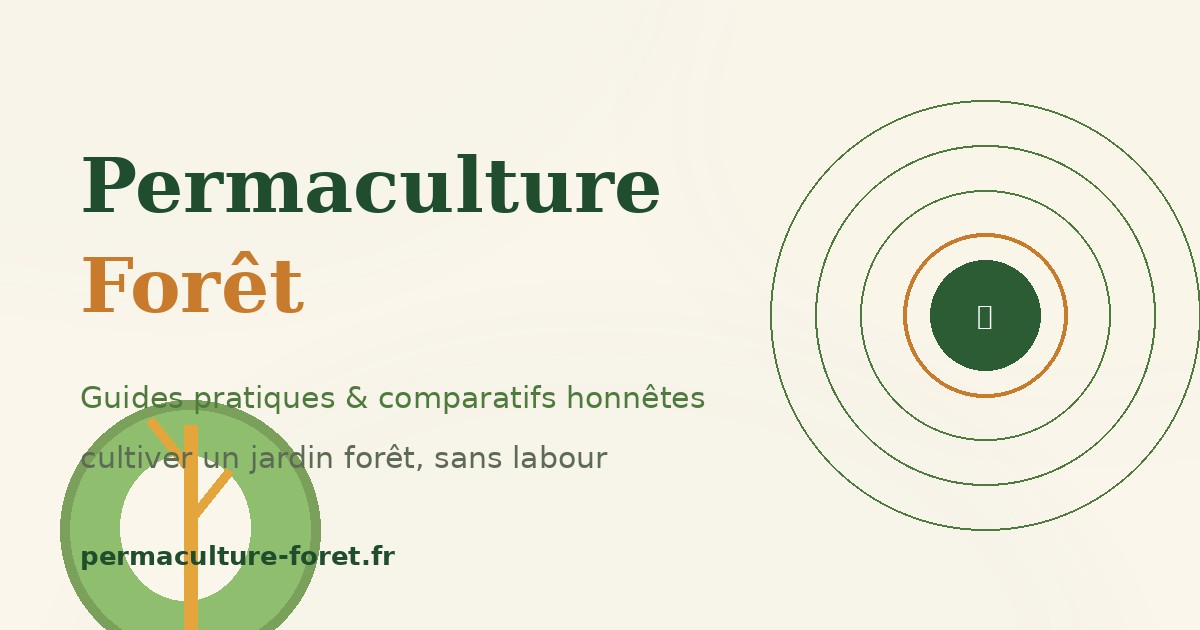
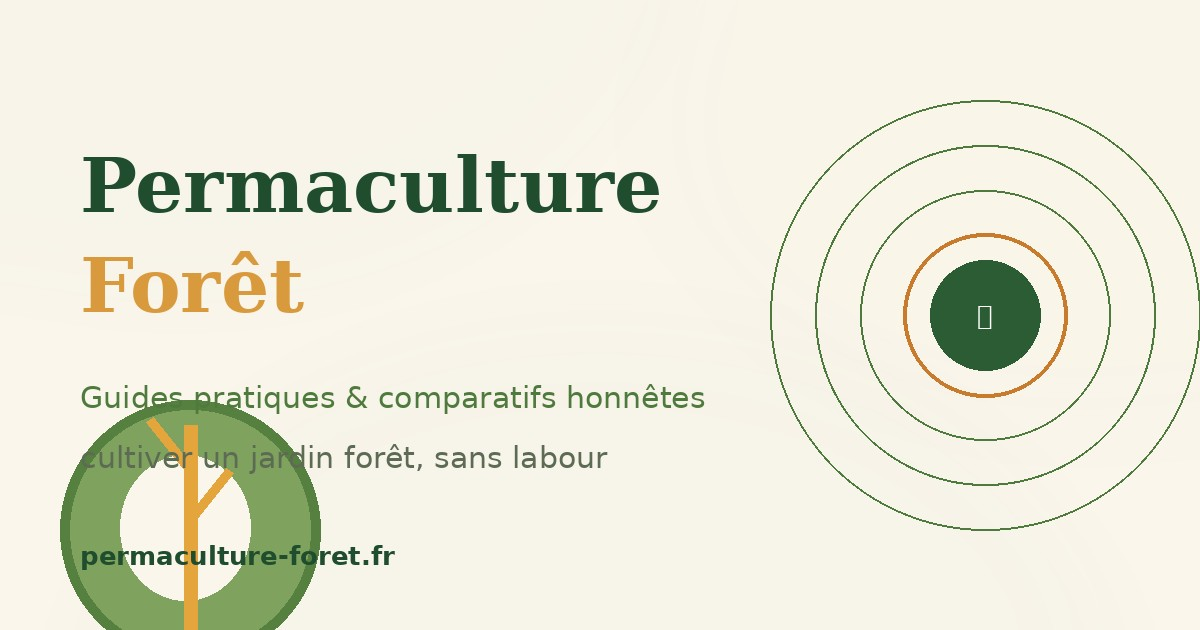
fix(design): palette resserrée famille verte, ambre en accent seul, orbes cohérents, CTA épuré, media queries mobile

Changed region(s): [[0.0308, 0.6333, 0.2775, 1.0], [0.0617, 0.3921, 0.2467, 0.5127]]

diff --git a/src/styles/global.css b/src/styles/global.css
@@ -4,26 +4,25 @@
    ============================================================ */
 
 :root {
-  --bg: #faf6ec;
-  --bg-2: #f1ebdb;
-  --paper: #fffdf6;
-  --panel: rgba(255, 253, 246, 0.72);
-  --panel-strong: rgba(255, 253, 246, 0.94);
-  --border: rgba(47, 71, 43, 0.13);
-  --border-strong: rgba(47, 71, 43, 0.24);
-  --text: #1e2b1a;
-  --muted: #5d6b54;
-  --forest: #1f4d2e;
-  --forest-2: #14381f;
-  --moss: #4f7a3d;
-  --leaf: #7ba05b;
-  --sage: #a9ba90;
-  --amber: #c97b2d;
-  --honey: #e3a53c;
-  --cream: #faf6ec;
-  --grad: linear-gradient(105deg, #1f4d2e 0%, #4f7a3d 55%, #c97b2d 135%);
-  --grad-soft: linear-gradient(105deg, rgba(31, 77, 46, 0.09), rgba(79, 122, 61, 0.09) 55%, rgba(201, 123, 45, 0.09));
-  --grad-text: linear-gradient(100deg, #1f4d2e 10%, #4f7a3d 60%, #c97b2d 120%);
+  --bg: #f7f4ea;
+  --bg-2: #efe9d9;
+  --paper: #fffdf4;
+  --panel: rgba(255, 253, 244, 0.72);
+  --panel-strong: rgba(255, 253, 244, 0.94);
+  --border: rgba(47, 71, 43, 0.12);
+  --border-strong: rgba(47, 71, 43, 0.22);
+  --text: #24301f;
+  --muted: #5f6b56;
+  --forest: #1e4a2b;
+  --forest-2: #14311d;
+  --moss: #55803f;
+  --leaf: #7fa35e;
+  --sage: #b3bf9a;
+  --amber: #d99a3d;
+  --cream: #f7f4ea;
+  --grad: linear-gradient(100deg, #1e4a2b 0%, #3c6b2f 55%, #55803f 100%);
+  --grad-soft: linear-gradient(100deg, rgba(30, 74, 43, 0.08), rgba(60, 107, 47, 0.08) 55%, rgba(85, 128, 63, 0.08));
+  --grad-text: linear-gradient(95deg, #1e4a2b 12%, #3c6b2f 65%, #55803f 100%);
   --radius: 22px;
   --radius-sm: 12px;
   --font-display: 'Fraunces', Georgia, 'Times New Roman', serif;
@@ -48,16 +47,16 @@ body {
   text-rendering: optimizeLegibility;
 }
 
-/* --- Halos nature : taches de mousse et d'ambre --- */
+/* --- Halos nature : taches de mousse uniquement (palette verte) --- */
 body::before {
   content: '';
   position: fixed;
   inset: 0;
   z-index: -2;
   background:
-    radial-gradient(ellipse 52% 40% at 12% -6%, rgba(123, 160, 91, 0.22), transparent 60%),
-    radial-gradient(ellipse 42% 34% at 92% 10%, rgba(227, 165, 60, 0.13), transparent 60%),
-    radial-gradient(ellipse 58% 44% at 50% 112%, rgba(79, 122, 61, 0.16), transparent 65%),
+    radial-gradient(ellipse 52% 40% at 12% -6%, rgba(127, 163, 94, 0.18), transparent 60%),
+    radial-gradient(ellipse 42% 34% at 92% 10%, rgba(179, 191, 154, 0.14), transparent 60%),
+    radial-gradient(ellipse 58% 44% at 50% 112%, rgba(85, 128, 63, 0.14), transparent 65%),
     var(--bg);
 }
 
@@ -394,7 +393,7 @@ section { position: relative; padding: 84px 0; }
 .ring-1 { inset: 2%; border: 1.5px solid rgba(79, 122, 61, 0.30); }
 .ring-2 {
   inset: 12%;
-  border: 1.5px dashed rgba(201, 123, 45, 0.45);
+  border: 1.5px dashed rgba(217, 154, 61, 0.38);
   animation: spin 46s linear infinite;
 }
 .ring-3 { inset: 23%; border: 1.5px solid rgba(79, 122, 61, 0.35); }
@@ -407,7 +406,7 @@ section { position: relative; padding: 84px 0; }
   position: absolute;
   inset: 36%;
   border-radius: 50%;
-  background: radial-gradient(circle at 34% 30%, #7ba05b, #2c5c33 58%, #1f4d2e);
+  background: radial-gradient(circle at 34% 30%, #7fa35e, #2c5c33 58%, #1e4a2b);
   box-shadow: 0 0 46px rgba(79, 122, 61, 0.5), inset -10px -12px 30px rgba(0, 0, 0, 0.25);
   display: flex;
   align-items: center;
@@ -418,16 +417,31 @@ section { position: relative; padding: 84px 0; }
 @keyframes float { 0%, 100% { transform: translateY(0); } 50% { transform: translateY(-12px); } }
 @keyframes spin { to { transform: rotate(360deg); } }
 @keyframes pulse { 0%, 100% { transform: scale(1); opacity: 1; } 50% { transform: scale(1.35); opacity: 0.75; } }
-.orbit-leaf {
+.orbit-orb {
   position: absolute;
-  font-size: 24px;
-  animation: spin 16s linear infinite;
-  filter: drop-shadow(0 4px 8px rgba(31, 60, 28, 0.25));
+  border-radius: 50%;
+  animation: spin linear infinite;
 }
-.orbit-leaf.l1 { top: 3%; left: 44%; font-size: 26px; animation-duration: 18s; }
-.orbit-leaf.l2 { bottom: 7%; left: 8%; animation-duration: 14s; }
-.orbit-leaf.l3 { top: 42%; right: 2%; font-size: 20px; animation-duration: 22s; }
-.orbit-leaf.l4 { bottom: 16%; right: 16%; font-size: 18px; animation-duration: 12s; }
+.orbit-orb::before {
+  content: '';
+  position: absolute;
+  inset: -12px;
+  border-radius: 50%;
+  background: radial-gradient(circle, currentColor 15%, transparent 70%);
+  opacity: 0.55;
+}
+.orbit-orb i {
+  position: absolute;
+  inset: 0;
+  border-radius: 50%;
+  display: block;
+}
+.o1 { width: 20px; height: 20px; top: 5%; left: 45%; color: var(--moss); animation-duration: 18s; }
+.o1 i { background: radial-gradient(circle at 30% 30%, #7fa35e, #55803f); box-shadow: 0 0 14px rgba(85, 128, 63, 0.7); }
+.o2 { width: 14px; height: 14px; bottom: 9%; left: 10%; color: var(--amber); animation-duration: 14s; }
+.o2 i { background: radial-gradient(circle at 30% 30%, #f0c274, #d99a3d); box-shadow: 0 0 12px rgba(217, 154, 61, 0.55); }
+.o3 { width: 11px; height: 11px; top: 40%; right: 5%; color: var(--sage); animation-duration: 22s; }
+.o3 i { background: radial-gradient(circle at 30% 30%, #d3ddb6, #b3bf9a); box-shadow: 0 0 10px rgba(179, 191, 154, 0.6); }
 .rings-caption {
   position: absolute;
   left: 50%;
@@ -601,32 +615,23 @@ section { position: relative; padding: 84px 0; }
   position: relative;
   overflow: hidden;
   border-radius: 28px;
-  background: var(--grad);
+  background:
+    radial-gradient(ellipse 60% 90% at 20% 0%, rgba(127, 163, 94, 0.35), transparent 60%),
+    linear-gradient(120deg, #14311d 0%, #1e4a2b 45%, #3c6b2f 100%);
   color: #fdfaf0;
   padding: 56px 48px;
   text-align: center;
   box-shadow: var(--shadow-lg);
 }
 .cta-band::before {
-  content: '🌿';
+  content: '';
   position: absolute;
-  font-size: 120px;
-  opacity: 0.14;
-  left: -18px;
-  bottom: -30px;
-  transform: rotate(-20deg);
+  inset: 0;
+  background: radial-gradient(ellipse 40% 55% at 85% 110%, rgba(217, 154, 61, 0.22), transparent 65%);
+  pointer-events: none;
 }
-.cta-band::after {
-  content: '🍂';
-  position: absolute;
-  font-size: 96px;
-  opacity: 0.12;
-  right: -10px;
-  top: -22px;
-  transform: rotate(18deg);
-}
-.cta-band h2 { color: #fff; font-size: clamp(26px, 3.6vw, 36px); margin-bottom: 10px; }
-.cta-band p { color: rgba(253, 250, 240, 0.85); max-width: 520px; margin: 0 auto 24px; }
+.cta-band h2 { color: #fff; font-size: clamp(26px, 3.6vw, 36px); margin-bottom: 10px; position: relative; }
+.cta-band p { color: rgba(253, 250, 240, 0.88); max-width: 520px; margin: 0 auto 24px; position: relative; }
 .btn-cream {
   background: #fdfaf0;
   color: var(--forest-2) !important;
@@ -652,7 +657,7 @@ section { position: relative; padding: 84px 0; }
 .footer-brand { font-family: var(--font-display); font-size: 21px; font-weight: 700; color: #f4efdf; margin-bottom: 10px; display: flex; align-items: center; gap: 10px; }
 .footer-brand svg { flex-shrink: 0; }
 .footer-desc { font-size: 14px; max-width: 320px; color: rgba(235, 228, 208, 0.68); }
-.footer-col h4 { font-family: var(--font-body); font-size: 13px; font-weight: 700; text-transform: uppercase; letter-spacing: 0.14em; color: var(--honey); margin-bottom: 14px; }
+.footer-col h4 { font-family: var(--font-body); font-size: 13px; font-weight: 700; text-transform: uppercase; letter-spacing: 0.14em; color: var(--amber); margin-bottom: 14px; }
 .footer-col a {
   display: block;
   color: rgba(235, 228, 208, 0.78);
@@ -675,6 +680,30 @@ section { position: relative; padding: 84px 0; }
 @media (max-width: 860px) {
   .footer-grid { grid-template-columns: 1fr; gap: 28px; }
   .footer-bottom { flex-direction: column; }
+}
+
+/* ============ Mobile : cohérence & respiration ============ */
+@media (max-width: 860px) {
+  section { padding: 60px 0; }
+  .section-sub { margin-bottom: 32px; }
+  .hero { min-height: auto; padding-top: calc(var(--nav-h) + 20px); }
+  .hero h1 { font-size: clamp(34px, 10vw, 44px); }
+  .hero-intro { font-size: 16px; margin-bottom: 26px; }
+  .hero-stats { gap: 28px; margin-top: 32px; }
+  .hero-stat b { font-size: 22px; }
+  .rings-wrap { max-width: 250px; margin-bottom: 14px; }
+  .rings-caption { font-size: 11px; bottom: -30px; white-space: normal; width: max-content; max-width: 90vw; }
+  .cta-band { padding: 40px 24px; border-radius: 22px; }
+  .marquee { padding: 14px 0; }
+  .marquee-item, .marquee-track { gap: 32px; }
+  .marquee-item { font-size: 13.5px; }
+  .post-card-body { padding: 16px 18px 18px; }
+  .post-card h3 { font-size: 18px; }
+  .post-content h2 { font-size: 24px; }
+  .post-header h1 { font-size: clamp(28px, 8.5vw, 36px); }
+  .site-footer { padding: 44px 0 26px; border-radius: 24px 24px 0 0; }
+  .nav { height: 62px; }
+  .brand { font-size: 17px; }
 }
 
 /* ============ Pages intérieures (blog, à propos…) ============ */

diff --git a/scripts/gen-og.py b/scripts/gen-og.py
@@ -32,8 +32,8 @@ f_sub = font("DejaVuSans.ttf", 30)
 f_small = font("DejaVuSans-Bold.ttf", 26)
 
 # Feuille décorative (gauche)
-d.ellipse([60, 400, 320, 660], fill="#7ba05b")
-d.ellipse([70, 410, 310, 650], fill="#8fbf6e")
+d.ellipse([60, 400, 320, 660], fill="#55803f")
+d.ellipse([70, 410, 310, 650], fill="#7fa35e")
 d.ellipse([120, 455, 250, 600], fill="#faf6ec")
 d.line([190, 425, 190, 640], fill="#e3a53c", width=14)
 d.line([190, 470, 150, 420], fill="#e3a53c", width=10)
@@ -49,7 +49,7 @@ d.text((cx, cy), "🌱", font=f_small, anchor="mm")
 
 # Texte
 d.text((80, 140), "Permaculture", font=f_title, fill="#1f4d2e")
-d.text((80, 240), "Forêt", font=f_title, fill="#c97b2d")
+d.text((80, 240), "Forêt", font=f_title, fill="#d99a3d")
 d.text((80, 380), "Guides pratiques & comparatifs honnêtes", font=f_sub, fill="#4f7a3d")
 d.text((80, 440), "cultiver un jardin forêt, sans labour", font=f_sub, fill="#5d6b54")
 d.text((80, 540), "permaculture-foret.fr", font=f_small, fill="#1f4d2e")
